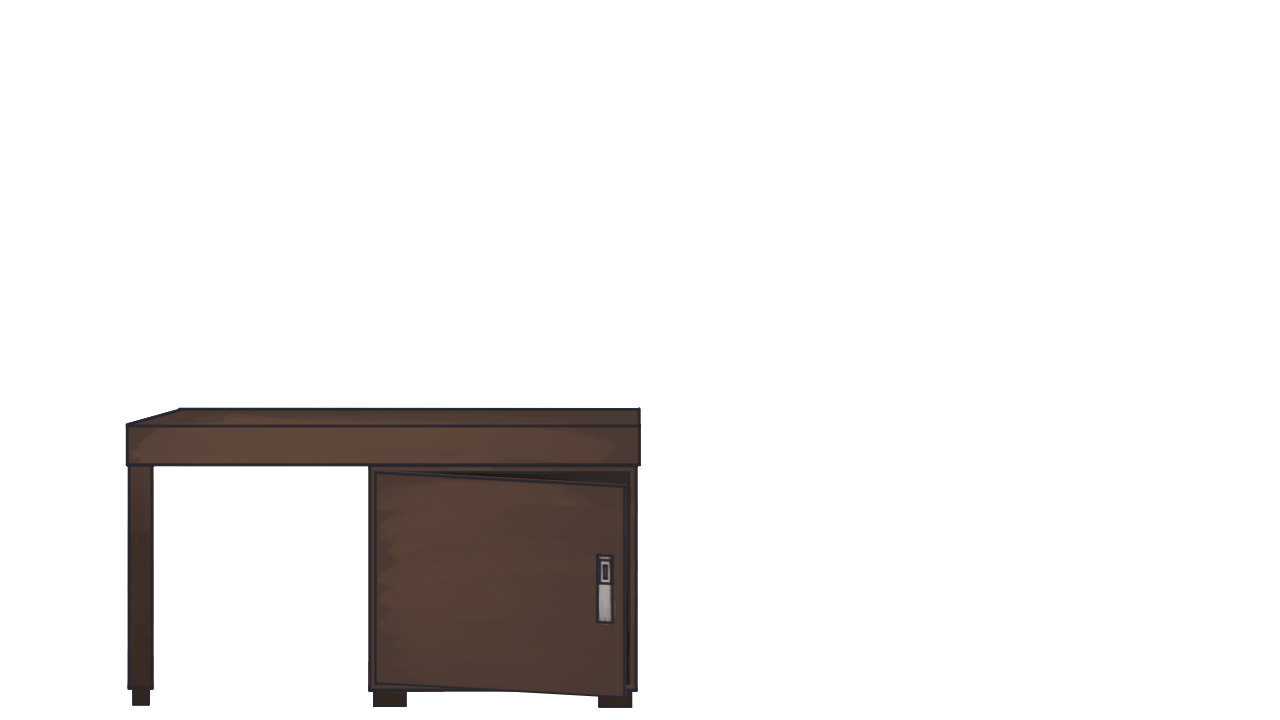
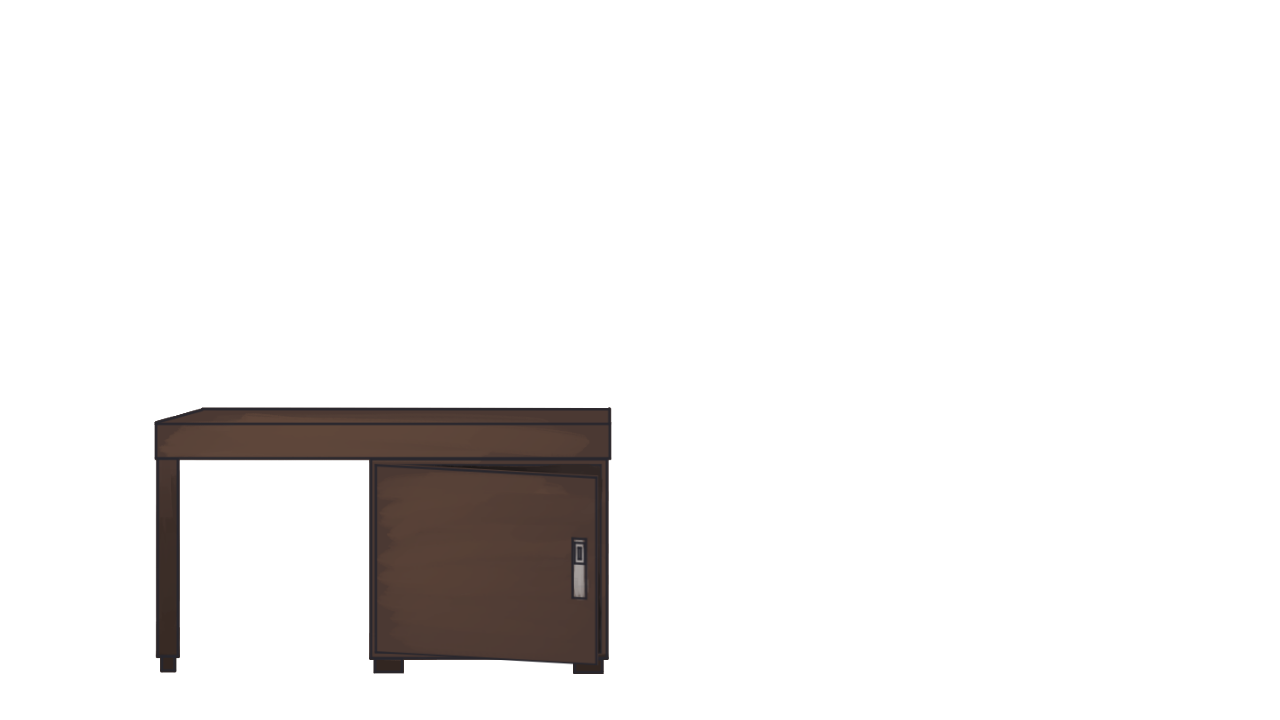
Updated assets in cellar

Changed region(s): [[0.0938, 0.55, 0.5, 1.0]]

diff --git a/src/scenes/Cellar/CellarSouth.js b/src/scenes/Cellar/CellarSouth.js
@@ -84,6 +84,20 @@ class CellarSouth extends Phaser.Scene {
         this.switchOff.interText = this.add.text(430, 290, 'You turned the\n  lights on');
         this.switchOff.interText.setFontSize(50);
         this.switchOff.interText.setVisible(false);
+        
+        // door image
+        this.door = this.add.image(640, 360, 'door');
+        this.door.setDisplaySize(1280, 720);
+        this.door.setVisible(false);
+        this.door.interText = this.add.text(460, 70, 'Press  space\nto enter the\n main  room');
+        this.door.interText.setFontSize(50);
+        this.door.interText.setVisible(false); 
+
+        /////////////////////////////////////////////////////////////////////////////////////////////////////////
+        // dark
+        this.dark = this.add.image(640, 360, 'dark');
+        this.dark.setDisplaySize(1280, 720);
+        this.dark.setVisible(false);
 
         /////////////////////////////////////////////////////////////////////////////////////////////////////////
         // hot bar 
@@ -106,20 +120,6 @@ class CellarSouth extends Phaser.Scene {
             useHandCursor: true
         });
         this.plateHot.setVisible(false);
-
-        /////////////////////////////////////////////////////////////////////////////////////////////////////////
-        // dark
-        this.dark = this.add.image(640, 360, 'dark');
-        this.dark.setDisplaySize(1280, 720);
-        this.dark.setVisible(false);
-        
-        // door image
-        this.door = this.add.image(640, 360, 'door');
-        this.door.setDisplaySize(1280, 720);
-        this.door.setVisible(false);
-        this.door.interText = this.add.text(460, 70, 'Press  space\nto enter the\n main  room');
-        this.door.interText.setFontSize(50);
-        this.door.interText.setVisible(false); 
 
         /////////////////////////////////////////////////////////////////////////////////////////////////////////
         // god forsaken variables

diff --git a/src/scenes/Cellar/CellarWest.js b/src/scenes/Cellar/CellarWest.js
@@ -69,11 +69,11 @@ class CellarWest extends Phaser.Scene {
         this.desk.interText.setFontSize(50);
         this.desk.interText.setVisible(false); 
         // closed desk image
-        this.deskClose = this.add.image(640, 360, 'desk');
+        this.deskClose = this.add.image(620, 320, 'desk');
         this.deskClose.setDisplaySize(1280, 720);
         this.deskClose.setVisible(true);
         // opened desk image
-        this.deskOpen = this.add.image(640, 360, 'deskOpen');
+        this.deskOpen = this.add.image(620, 320, 'deskOpen');
         this.deskOpen.setDisplaySize(1280, 720);
         this.deskOpen.setVisible(false);
         this.deskOpen.interText = this.add.text(700, 450, 'You found a\nlight switch');
